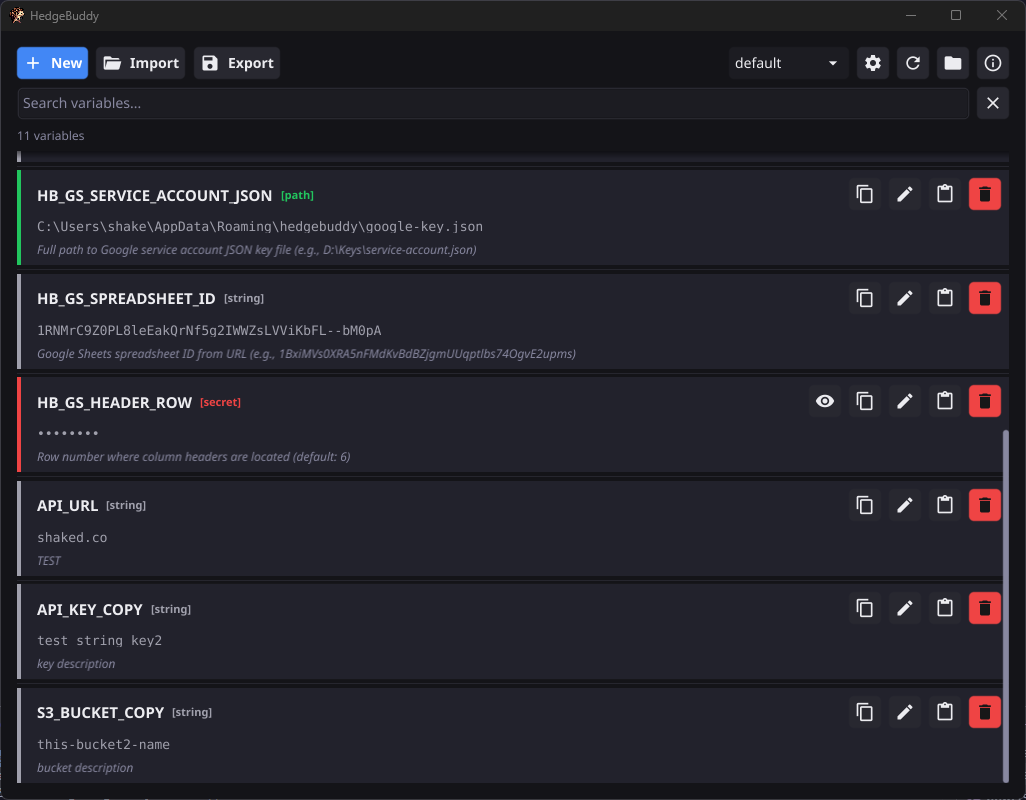
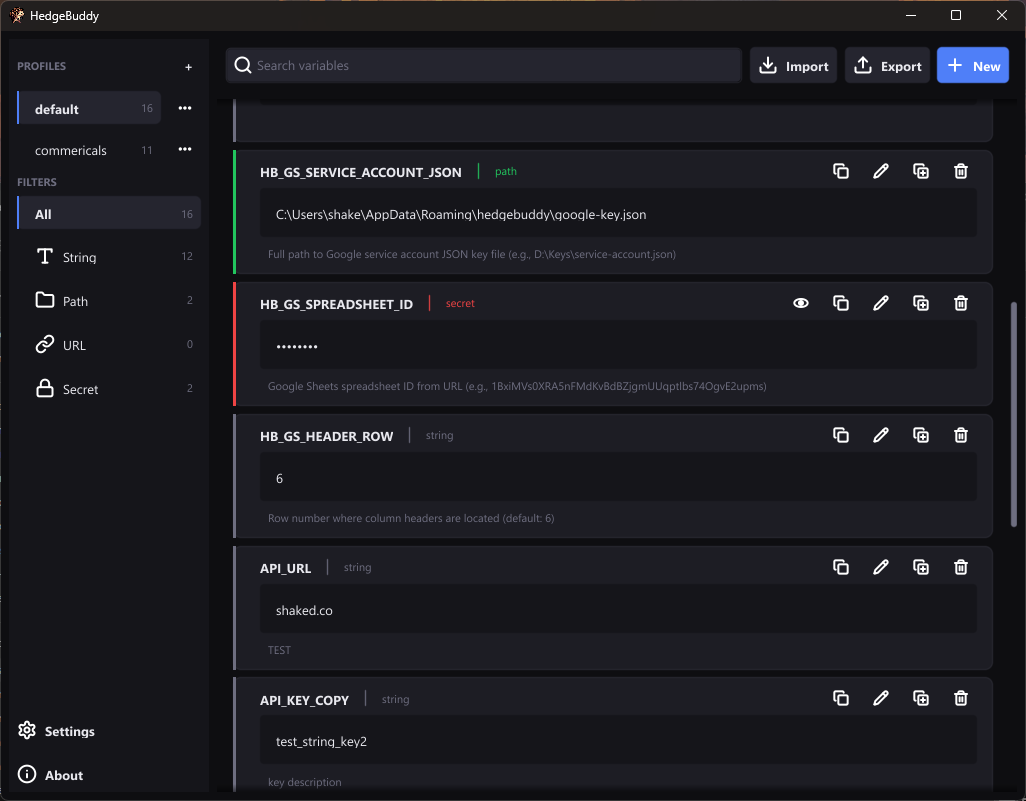
release: 0.10.0 — UI modernization (Phase 1 + Phase 2)

diff --git a/app/internal/ui/constants.go b/app/internal/ui/constants.go
@@ -3,7 +3,7 @@ package ui
 // App metadata
 const (
 	AppName    = "HedgeBuddy"
-	AppVersion = "0.9.1"
+	AppVersion = "0.10.0"
 
 	WindowTitle  = "HedgeBuddy"
 	WindowWidth  = 1024

diff --git a/python-lib/hedgebuddy/__init__.py b/python-lib/hedgebuddy/__init__.py
@@ -39,7 +39,7 @@ from .logger import (
     is_logging_enabled,
 )
 
-__version__ = "0.9.1"
+__version__ = "0.10.0"
 __all__ = [
     "var",
     "get",

diff --git a/CHANGELOG.md b/CHANGELOG.md
@@ -8,9 +8,56 @@ Format based on [Keep a Changelog](https://keepachangelog.com/en/1.1.0/).
 
 ## [Unreleased]
 
+## [0.10.0] - 2026-05-25
+
+Major UI modernization. Old top-toolbar layout replaced with a sidebar shell + right-side drawers. The 5 legacy views (`*view.go`) have been removed and rebuilt as drawers and modals composed from a shared component library.
+
+### Added
+
+- **Sidebar shell** — left-aligned 200px sidebar with PROFILES section (active profile highlighted, inline `+` composer and inline rename), FILTERS section (`All / String / Path / URL / Secret` with live counts and Lucide icons), and Settings/About footer links.
+- **Right-side drawer overlay** — replaces the previous full-pane navigation for Edit/New/Import/Export. Esc and scrim-tap both close. Drawer content swaps without re-mounting the shell.
+- **Design token packages** — `app/internal/ui/tokens/` defines colors, spacing, and radii as the single source of truth. The theme proxies to tokens.
+- **OS-native font loader** — Segoe UI on Windows (`segoeui.ttf` + `segoeuib.ttf`), SF Pro on macOS, with safe fallback to Fyne's default when files are missing. Path uses `%SystemRoot%` for portability.
+- **Lucide icon set** — 28 outlined SVGs vendored via `tools/icons` fetcher tool and embedded via `//go:embed`. Replaces all `theme.*Icon()` callsites in the new UI surfaces.
+- **Reusable component primitives** (`app/internal/ui/components/`): `Sidebar`+`SidebarItem`, `CardRow`, `Drawer`, `IconButton` (with hover-tint and tooltip), `InlineStateButton` (idle→busy→done/error state machine), `Modal`+`ShowDeleteConfirm`, `FieldRow` with inline error caption.
+- **No-toast feedback contract** — `InlineStateButton` morphs on save/import/export; `CardRow.Flash()` tints rows on save/import/duplicate/copy; `CardRow.ConfirmCopy()` swaps copy icon to a check for 1s. Replaces transient toast notifications.
+- **Inline validation** — `Entry.Validator` + `FieldRow.SetError` surface variable name and value errors under the field as the user types. Modal `dialog.ShowError` reduced to disk-IO last resort.
+- **Auto-reload via fsnotify** — `vars.json` is watched; external edits refresh the list automatically.
+- **Variable name collision check** — `SaveVariable` refuses to rename or create a variable that would clobber an existing one. Surfaces inline under the Name field via `ErrVariableExists` sentinel.
+- **Auto-scroll to flashed row** — duplicate/save/import scrolls the list to bring the affected row into view (uses real `Position().Y`, not estimated row height).
+- **Inline profile composer** — new-profile and rename happen as inline editable rows in the sidebar. Modal forms remain only for Import-as-Profile.
+- **Sidebar filter icons** — Lucide `type/folder/link/lock` icons next to filter labels.
+- **Code-block styling for variable values** — recessed `Surface1` background distinguishes value from description.
+- **Tooltip layer** — IconButtons embed `ttwidget.ToolTipWidget` for hover tooltips on all actionable icons.
+- **Browse File / Browse Folder split** — path-type variables now offer both file and folder pickers.
+- **Phase 2 manual QA checklist** — `docs/superpowers/specs/2026-05-24-hedgebuddy-ui-modernization-qa.md`.
+
 ### Changed
 
-- **Quills extracted to its own repository at [shakedex/quills](https://github.com/shakedex/quills).** The `service/` and `quills/` directories, the Quills release workflow, and the combined "HedgeBuddy Suite" installer have been removed. Historical entries below that describe Quills work remain for context, but Quills development continues in the new repo.
+- **Storage directory case-normalized to lowercase `hedgebuddy/`** on Windows and macOS. Existing `HedgeBuddy/` directories migrate automatically on first launch. Aligns Go side with Python side; eliminates case-sensitive filesystem mismatches.
+- **Python check + update check sequenced** — update dialog only fires after the Python check completes or dismisses, eliminating modal stacking.
+- **Export warning** — now mentions both `.env` and JSON formats (both write secrets in plain text).
+- **Delete confirm dialog** — action-specific button label (`Delete API_KEY`) and terse single-line body.
+- **Python/update dialogs** — two-button layout with inline "Don't remind me again" checkbox (was 3-4 stacked buttons).
+- **Install Update** — shows "Launching updater…" inline for 600ms before quit instead of disappearing instantly.
+- **Validator messages** — human language ("URLs must start with http:// or https://"; "can't find this path on this machine").
+- **About modal** — softened disclaimer; less shouty.
+- **Default and active profile** — Rename and Delete options disabled in the ⋯ menu instead of throwing errors after the click.
+
+### Removed
+
+- **6 legacy view files** — `aboutview.go`, `formview.go`, `importview.go`, `exportview.go`, `profileview.go`, `helpers.go`. Replaced by `aboutmodal.go`, `editdrawer.go`, `importdrawer.go`, `exportdrawer.go`, `profilemodal.go`, `settingsmodal.go`, and the new components package.
+- **Linux branch of Python lib's `_get_base_dir()`** — raises `StorageNotFoundError` on Linux. The Go GUI doesn't ship for Linux, so the silent fallback was creating drift.
+- **Toast notifications and `ShowStatus`** — replaced by the inline feedback contract.
+- **Manual "Refresh" toolbar button** — fsnotify replaces it.
+
+### Fixed
+
+- **CRITICAL: rename collision data loss** — renaming variable `A` to an existing variable `B`'s name no longer silently overwrites `B`. (Pre-Phase-2 behavior would merge into `B`, losing its value.)
+- **Drop-handler leak across views** — drop handler scoped to drawer lifecycle.
+- **Confirm-delete modal text wrapping** — uses `widget.Label` with `TextWrapWord`.
+- **`container.NewMax`** deprecated calls replaced with `container.NewStack`.
+- **Manual string truncation** replaced with `widget.Label.Truncation = TextTruncateEllipsis`.
 
 ## [0.9.1] - 2026-04-12
 
